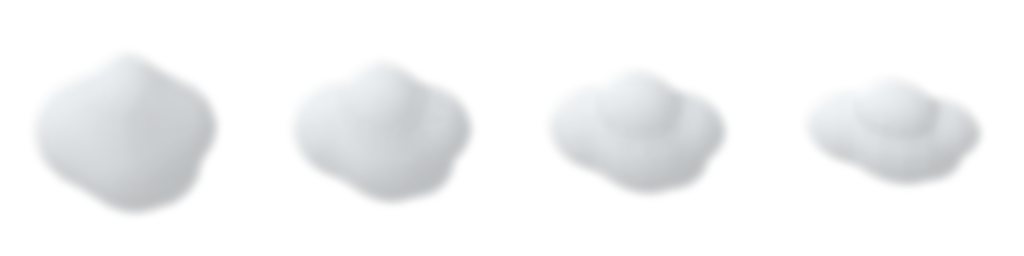
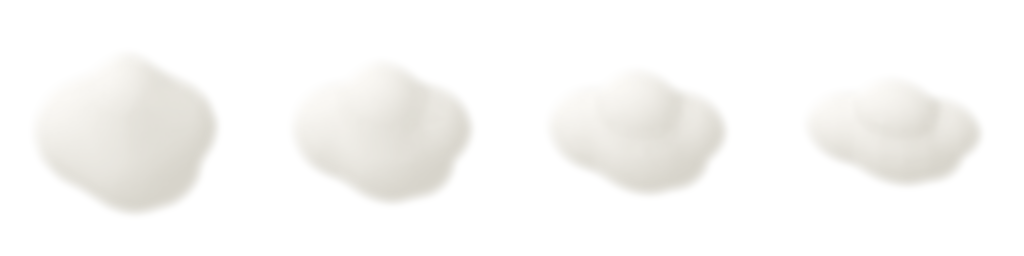
fix(fx): preserve smoke billboard growth and warm-white density for 178 R2.4

diff --git a/tools/art/source/shared_fx/soften_smoke.py b/tools/art/source/shared_fx/soften_smoke.py
@@ -1,7 +1,7 @@
-"""Smoke-only R2.3 packing. Leaves approved flame/spark resources untouched.
+"""Smoke-only R2.4 packing. Leaves approved flame/spark resources untouched.
 
 Input is the four original render_smoke.py outputs, never the packed result.
-Premultiplied RGB dilation prevents dark fringes at newly softened alpha edges.
+Warm near-white values retain lobe shading; transparent RGB is filled before filtering.
 """
 from pathlib import Path
 from PIL import Image, ImageFilter
@@ -13,9 +13,14 @@ for i in range(4):
     src = Image.open(ROOT / f'output/shared-fx/smoke-{i}.png').convert('RGBA')
     alpha = src.getchannel('A')
     arr = np.asarray(src).copy()
-    # Fill transparent RGB with the neutral cloud edge colour before filtering.
-    arr[arr[:, :, 3] < 12, :3] = [218, 222, 224]
-    rgb = Image.fromarray(arr[:, :, :3]).filter(ImageFilter.GaussianBlur(2))
+    # Remap the original neutral lobe lighting to pale warm shadows / ivory white.
+    # Keep the R2.3 alpha silhouette byte-identical; only RGB changes this round.
+    luma = arr[:, :, :3].astype(float).mean(axis=2)
+    lo, hi = np.percentile(luma[arr[:, :, 3] > 240], [2, 98])
+    weight = np.clip((luma-lo)/max(hi-lo, 1), 0, 1)[..., None]
+    rgb_values = np.array([215, 212, 203]) + weight * np.array([35, 36, 41])
+    rgb_values[arr[:, :, 3] < 12] = [244, 243, 239]
+    rgb = Image.fromarray(rgb_values.astype('uint8')).filter(ImageFilter.GaussianBlur(2))
     # Erode before blur: keep lobes and a soft inward edge, not a glowing halo.
     alpha = alpha.filter(ImageFilter.MinFilter(9)).filter(ImageFilter.GaussianBlur(4.5))
     rgba = rgb.convert('RGBA')

diff --git a/assets/rooms/_shared/fx/README.md b/assets/rooms/_shared/fx/README.md
@@ -1,6 +1,6 @@
 # Shared hearth fire and chimney smoke
 
-Self-contained Godot 4.7 Mobile/Vulkan effects for SGODOT-178 R2.3. Copy this entire directory, at the same `res://assets/rooms/_shared/fx/` path, into a consumer project. No room GLB, room atlas, scene assembler or game service is required. The fire from 5e5bf6af passed art-director review; SGODOT-236 can integrate it. R2.3 changes smoke only; fire resources and shared helpers are byte-identical.
+Self-contained Godot 4.7 Mobile/Vulkan effects for SGODOT-178 R2.4. Copy this entire directory, at the same `res://assets/rooms/_shared/fx/` path, into a consumer project. No room GLB, room atlas, scene assembler or game service is required. The fire from 5e5bf6af passed art-director review; SGODOT-236 can integrate it. R2.4 changes smoke only; fire resources and shared helpers are byte-identical.
 
 Instantiate `fx_hearth_fire.tscn` / `fx_chimney_smoke.tscn`, set properties **before** `add_child()`, then place their Node3D roots. Metres, Y up. Parameters are creation-time settings; recreate the instance to change particle geometry/count at runtime.
 
@@ -22,12 +22,14 @@ Existing `HearthGlow` can be borrowed via `light_path`. Stop any previous animat
 | `smoke_count` / `lifetime` | 8 / 4.0 | 8–10 particles / 3–4 seconds |
 | `drift` | (0.28, 0.72, -0.04) | Metres/second; initial upward/sideways velocity ±12% |
 | `emission_box` | (0.055, 0.01, 0.035) | Half extents around chimney mouth |
-| `start_size` / `end_size` | 0.30 / 1.9 | Sprite size over lifetime, per-puff scale 0.75–1.25 |
+| `start_size` / `end_size` | 1.2 / 2.6 | Sprite size over lifetime, per-puff scale 0.75–1.25 |
 
-Smoke uses 15° emission spread and wind acceleration (0.18, 0.04, 0) m/s². Each puff randomly chooses one of four static frames, rotates from −180° to 180° and slowly turns at ±8°/s. Alpha rises in the first 6%, holds through 40%, then fades to zero. Soft inward alpha edges retain the rendered cloud lobes. The explicit AABB includes spread, random scale, velocity and wind travel.
+Smoke uses 15° emission spread and wind acceleration (0.18, 0.04, 0) m/s². Each puff randomly chooses one of four static frames, rotates from −180° to 180° and slowly turns at ±8°/s. Alpha rises in the first 2%, holds at 0.98 through 62%, stays at 0.86 at 88%, then fades to zero. Nominal upper/bottom size is 2.17×. The smoke-only material enables `billboard_keep_scale`: without it the particle billboard discards the animated scale. The normalised ramp and metre-valued particle scale range now visibly enlarge the upper clouds. Smoke RGB is warm near-white (highlight #FAF8F4, shallow warm-grey lobe shadows); its albedo tint is white, removing the previous cool-grey multiplier. No HDR brightness boost or emission is used. Soft inward alpha edges retain the rendered cloud lobes. The explicit AABB includes spread, random scale, velocity and wind travel.
 
 Three GPU particle draws for fire + sparks + smoke; Basic Room fire alone uses two and defaults to **20 particles total**. 178 uses 16 + 4 + 8 = **28**, below 40. No particle collisions or shadow casting; fixed simulation FPS 30; explicit visibility AABBs derive from the declared motion envelope. Preprocess equals the complete lifetime, so smoke fills at first display. The sprites are alpha blended and unlit; flame/embers have modest emission, smoke has none. The light uses smooth bounded sinusoidal variation, not strobe or random per-frame jumps. GPU simulation can differ across devices; fixed seeds support repeatable local captures, not cross-GPU identity.
 
-Textures: flame and smoke strips each 1024 × 256 RGBA, four 256px frames; spark 64 × 64 RGBA. Original smoke sprites are rendered from the accepted R2.1 cloud meshes. Flame silhouettes are four authored curves with red/orange/gold colour stops following 172's accepted direction. Source generators: `tools/art/source/shared_fx/render_smoke.py` (Blender) and `pack_sprites.py` (Pillow/NumPy), followed by smoke-only `soften_smoke.py` for R2.3. They are authoring tools; the runtime folder has no dependency on those scenes/tools. Import with mipmaps and VRAM compression.
+Textures: flame and smoke strips each 1024 × 256 RGBA, four 256px frames; spark 64 × 64 RGBA. Original smoke sprites are rendered from the accepted R2.1 cloud meshes. Flame silhouettes are four authored curves with red/orange/gold colour stops following 172's accepted direction. Source generators: `tools/art/source/shared_fx/render_smoke.py` (Blender) and `pack_sprites.py` (Pillow/NumPy), followed by smoke-only `soften_smoke.py` for R2.4 (RGB remap only; R2.3 soft alpha is unchanged). They are authoring tools; the runtime folder has no dependency on those scenes/tools. Import with mipmaps and VRAM compression.
 
 Review requires actual moving clips, whole-scene evidence and renderer draw counts; static screenshots alone do not establish particle acceptance. No physical-device performance claim.
+
+R2.4 growth control: `tools/art/source/shared_fx/verify_smoke_growth.gd` renders one fixed-frame puff at 0.24s / 2.60s. Production still uses 8 puffs, ±25% random size, four random frames and random rotation. PR #29 / Basic Room uses fire only; do not rewrite that approved fire or its copied smoke on farm-dev for this task. Future art-branch integration should retain this newer smoke script/texture.
